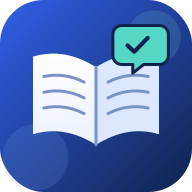
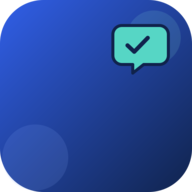
Add files via upload

Changed region(s): [[0.1562, 0.25, 0.8438, 0.75], [0.8125, 0.0, 1.0, 0.2188], [0.0, 0.7812, 0.1875, 1.0]]

diff --git a/app.js b/app.js
@@ -16,13 +16,13 @@ function typesetMath(container=root){
   if(window.MathJax?.typesetPromise) window.MathJax.typesetPromise([container]).catch(()=>{});
 }
 async function api(url,opt={}){opt.headers={...(opt.headers||{}),'Content-Type':'application/json',...(token?{Authorization:'Bearer '+token}:{})};const r=await fetch('/api'+url,opt);const d=await r.json().catch(()=>({}));if(!r.ok)throw Error(d.error||'Request failed');return d}
-function authView(){root.innerHTML=`<main class="center"><section class="card auth-card"><div class="auth-brand"><img src="/icon-192.svg" alt="Easyway Learn logo"><div><h1>Easyway Learn</h1><p>Tuition Teacher · Reading & Learning</p></div></div><h2>Welcome</h2><div class="auth-choice-grid"><button class="list" type="button" onclick="teacherLoginOnly()">🔐 Login</button><button class="list" type="button" onclick="teacherRegisterOnly()">🆕 Create Teacher Account</button></div></section></main>`}
+function authView(){root.innerHTML=`<main class="center"><section class="card auth-card"><div class="auth-brand"><img src="/icon-192.png" alt="Easyway Learn logo"><div><h1>Easyway Learn</h1><p>Tuition Teacher · Reading & Learning</p></div></div><h2>Welcome</h2><div class="auth-choice-grid"><button class="list" type="button" onclick="teacherLoginOnly()">🔐 Login</button><button class="list" type="button" onclick="teacherRegisterOnly()">🆕 Create Teacher Account</button></div></section></main>`}
 function teacherLoginOnly(){teacherAuthForms();const reg=document.getElementById('reg');if(reg)reg.closest('form')?.remove();const admin=document.getElementById('adminLoginBtn');if(admin)admin.remove();const back=document.createElement('button');back.type='button';back.className='btn-secondary';back.textContent='Back';back.onclick=authView;root.querySelector('.auth-brand')?.after(back);const h3=root.querySelector('h3');if(h3)h3.remove();const hr=root.querySelectorAll('hr');if(hr.length)hr[hr.length-1].remove();}
 function teacherRegisterOnly(){teacherAuthForms();const login=document.getElementById('login');if(login){login.remove();}const forgot=document.getElementById('forgot');if(forgot)forgot.remove();const headings=root.querySelectorAll('h2');if(headings[0])headings[0].textContent='Create Teacher Account';const h3=root.querySelector('h3');if(h3)h3.remove();const admin=document.getElementById('adminLoginBtn');if(admin)admin.remove();const hr=root.querySelectorAll('hr');hr.forEach(x=>x.remove());const brand=root.querySelector('.auth-brand');if(brand){const back=document.createElement('button');back.type='button';back.className='btn-secondary';back.textContent='Back';back.onclick=authView;brand.after(back);}}
 function teacherAuthForms(){
   const resetToken=new URLSearchParams(location.search).get('reset');
   if(resetToken){return resetPasswordView(resetToken)}
-  root.innerHTML=`<main class="center"><section class="card auth-card"><div class="auth-brand"><img src="/icon-192.svg" alt="Easyway Learn logo"><div><h1>Easyway Learn</h1><p>Tuition Teacher · Reading & Learning</p></div></div><div class="section-kicker">TEACHER PORTAL</div><h2>Teacher Login</h2><form id="login"><label for="loginEmail">Email</label><input id="loginEmail" name="email" type="email" placeholder="अपना ईमेल लिखें" autocomplete="username" required><label for="loginPassword">Password</label><input id="loginPassword" name="password" type="password" placeholder="अपना पासवर्ड लिखें" autocomplete="current-password" required><button>Login</button></form><button id="forgot" class="btn-secondary" type="button">Forgot Password?</button><hr><h3>Create new Teacher ID</h3><form id="reg"><label for="registerName">Teacher name</label><input id="registerName" name="name" placeholder="शिक्षक का नाम" required><label for="registerEmail">Email</label><input id="registerEmail" name="email" type="email" placeholder="ईमेल" autocomplete="email" required><label for="registerPassword">Password</label><input id="registerPassword" name="password" type="password" minlength="6" placeholder="कम से कम 6 अक्षर" autocomplete="new-password" required><button>Create Account</button></form></section></main>`;
+  root.innerHTML=`<main class="center"><section class="card auth-card"><div class="auth-brand"><img src="/icon-192.png" alt="Easyway Learn logo"><div><h1>Easyway Learn</h1><p>Tuition Teacher · Reading & Learning</p></div></div><div class="section-kicker">TEACHER PORTAL</div><h2>Teacher Login</h2><form id="login"><label for="loginEmail">Email</label><input id="loginEmail" name="email" type="email" placeholder="अपना ईमेल लिखें" autocomplete="username" required><label for="loginPassword">Password</label><input id="loginPassword" name="password" type="password" placeholder="अपना पासवर्ड लिखें" autocomplete="current-password" required><button>Login</button></form><button id="forgot" class="btn-secondary" type="button">Forgot Password?</button><hr><h3>Create new Teacher ID</h3><form id="reg"><label for="registerName">Teacher name</label><input id="registerName" name="name" placeholder="शिक्षक का नाम" required><label for="registerEmail">Email</label><input id="registerEmail" name="email" type="email" placeholder="ईमेल" autocomplete="email" required><label for="registerPassword">Password</label><input id="registerPassword" name="password" type="password" minlength="6" placeholder="कम से कम 6 अक्षर" autocomplete="new-password" required><button>Create Account</button></form></section></main>`;
   login.onsubmit=async e=>{e.preventDefault();try{const d=await api('/auth/login',{method:'POST',body:JSON.stringify(Object.fromEntries(new FormData(login)))});token=d.token;localStorage.token=token;boot()}catch(x){alert(x.message)}};
   reg.onsubmit=async e=>{e.preventDefault();try{const d=await api('/auth/register',{method:'POST',body:JSON.stringify(Object.fromEntries(new FormData(reg)))});token=d.token;localStorage.token=token;sessionStorage.teacherCreated=`Account Created Successfully\nName: ${d.teacher.name}\nEmail/Teacher ID: ${d.teacher.email}`;boot()}catch(x){alert(x.message)}};
   forgot.onclick=forgotPasswordView;
@@ -84,7 +84,7 @@ function dashboard(){
   const created=sessionStorage.getItem('teacherCreated'); sessionStorage.removeItem('teacherCreated');
   const orderedStudents=state.students;
   const rankMap=new Map(state.results.slice().sort((a,b)=>Number(b.score||0)-Number(a.score||0)).map((r,i)=>[r.id||r.student_id,i+1]));
-  root.innerHTML=`<header><div class="brand-lockup"><img src="/icon-192.svg" alt="Easyway Learn logo"><div><b>Easyway Learn</b><small>Tuition Teacher${decodeJwtRole()==='admin_impersonate'?' · Admin Check Mode':''}</small></div></div><div class="header-actions">${decodeJwtRole()==='admin_impersonate'?'<button id="backAdmin" class="btn-secondary" type="button">Back to Admin</button>':''}<button id="teacherProfile" class="profile-button" type="button" aria-expanded="false"><span class="profile-avatar">${esc((state.teacher?.name||'T').trim().charAt(0).toUpperCase())}</span><span class="profile-name">${esc(state.teacher?.name||'Teacher')}</span><span>⌄</span></button><button id="logout">Logout</button></div><div id="profileMenu" class="profile-menu" hidden><b>${esc(state.teacher?.name||'Teacher')}</b><small>Teacher ID: ${esc(state.teacher?.email||state.teacher?.id||'')}</small><button id="profileChangePassword" class="btn-secondary" type="button">Change Password</button></div></header><main>${created?`<section class="success-banner"><b>${esc(created).replace(/\n/g,'<br>')}</b></section>`:''}
+  root.innerHTML=`<header><div class="brand-lockup"><img src="/icon-192.png" alt="Easyway Learn logo"><div><b>Easyway Learn</b><small>Tuition Teacher${decodeJwtRole()==='admin_impersonate'?' · Admin Check Mode':''}</small></div></div><div class="header-actions">${decodeJwtRole()==='admin_impersonate'?'<button id="backAdmin" class="btn-secondary" type="button">Back to Admin</button>':''}<button id="teacherProfile" class="profile-button" type="button" aria-expanded="false"><span class="profile-avatar">${esc((state.teacher?.name||'T').trim().charAt(0).toUpperCase())}</span><span class="profile-name">${esc(state.teacher?.name||'Teacher')}</span><span>⌄</span></button><button id="logout">Logout</button></div><div id="profileMenu" class="profile-menu" hidden><b>${esc(state.teacher?.name||'Teacher')}</b><small>Teacher ID: ${esc(state.teacher?.email||state.teacher?.id||'')}</small><button id="profileChangePassword" class="btn-secondary" type="button">Change Password</button></div></header><main>${created?`<section class="success-banner"><b>${esc(created).replace(/\n/g,'<br>')}</b></section>`:''}
   <section class="card"><div class="section-heading"><div><div class="section-kicker">STUDENT MANAGEMENT</div><h2>Students</h2></div><span class="count-pill">${state.students.length}/20</span></div><button id="addStudent">+ Add Student</button><div id="studentList" class="compact-grid">${orderedStudents.slice(0,5).map((st,i)=>`<button class="list compact-item" data-s="${st.id}">${i+1}. ${esc(st.name)}<small>Class ${esc(st.class_name)}</small></button>`).join('')}${orderedStudents.length>5?'<button id="moreStudents" class="btn-secondary compact-item">More</button>':''}</div><div id="extraStudents" class="compact-grid" hidden>${orderedStudents.slice(5).map((st,i)=>`<button class="list compact-item" data-s="${st.id}">${i+6}. ${esc(st.name)}<small>Class ${esc(st.class_name)}</small></button>`).join('')}</div></section>
   <section class="card"><div class="section-heading"><div><div class="section-kicker">PERFORMANCE</div><h2>Student Rank</h2></div></div><div class="compact-grid rank-grid dashboard-rank-grid">${state.results.slice().sort((a,b)=>Number(b.score||0)-Number(a.score||0)).slice(0,8).map((r,i)=>`<div class="rank-tile"><b>#${i+1} ${esc(r.name)}</b><span>${Number(r.score||0).toFixed(2)}% · ${r.tests||0} tests</span></div>`).join('')||'<p class="muted">टेस्ट पूरा होने पर रैंक दिखाई देगी।</p>'}${state.results.length>8?'<button id="moreRanks" class="btn-secondary compact-item">More</button>':''}</div><div id="extraRanks" class="compact-grid rank-grid" hidden>${state.results.slice().sort((a,b)=>Number(b.score||0)-Number(a.score||0)).slice(8).map((r,i)=>`<div class="rank-tile"><b>#${i+9} ${esc(r.name)}</b><span>${Number(r.score||0).toFixed(2)}% · ${r.tests||0} tests</span></div>`).join('')}</div></section>
   <section class="card"><div class="section-heading"><div><div class="section-kicker">LEARNING MATERIAL</div><h2>Subjects</h2></div></div><div class="compact-grid dashboard-subject-grid">${state.content.slice(0,5).map((sub,i)=>`<button class="list compact-item" data-teacher-subject="${sub.id}">${i+1}. ${esc(sub.name)}</button>`).join('')}${state.content.length>5?'<button id="moreSubjects" class="btn-secondary compact-item">More</button>':''}<button id="addSubject" class="btn-secondary compact-item">+ Create Subject</button></div><div id="extraSubjects" class="compact-grid" hidden>${state.content.slice(5).map((sub,i)=>`<button class="list compact-item" data-teacher-subject="${sub.id}">${i+6}. ${esc(sub.name)}</button>`).join('')}</div><div id="content" hidden>${renderContent()}</div></section></main>`;
@@ -99,7 +99,7 @@ function dashboard(){
   const moreSubjects=document.getElementById('moreSubjects');if(moreSubjects)moreSubjects.onclick=()=>{document.getElementById('extraSubjects').hidden=false;moreSubjects.remove();bindSubjectButtons()};
   function bindSubjectButtons(){document.querySelectorAll('[data-teacher-subject]').forEach(b=>b.onclick=()=>teacherSubjectFlow(+b.dataset.teacherSubject))}bindSubjectButtons();
 }
-function teacherSubjectFlow(subjectId){const subject=state.content.find(s=>s.id===subjectId);if(!subject)return;root.innerHTML=`<header><div class="brand-lockup"><img src="/icon-192.svg" alt=""><div><b>Easyway Learn</b><small>${esc(subject.name)}</small></div></div><button class="btn-secondary" onclick="dashboard()">Back</button></header><main><section class="card"><h2>${esc(subject.name)} — Book चुनें</h2><div class="compact-grid">${subject.books.map(b=>`<button class="list compact-item" onclick="teacherBookFlow(${subjectId},${b.id})">${esc(b.name)}</button>`).join('')||'<p class="muted">अभी कोई Book नहीं है।</p>'}</div><div class="button-row"><button onclick="addBookForm(${subjectId})">+ Book</button><button class="btn-secondary" onclick="editSubject(${subjectId})">Edit Subject</button></div></section></main>`}
+function teacherSubjectFlow(subjectId){const subject=state.content.find(s=>s.id===subjectId);if(!subject)return;root.innerHTML=`<header><div class="brand-lockup"><img src="/icon-192.png" alt=""><div><b>Easyway Learn</b><small>${esc(subject.name)}</small></div></div><button class="btn-secondary" onclick="dashboard()">Back</button></header><main><section class="card"><h2>${esc(subject.name)} — Book चुनें</h2><div class="compact-grid">${subject.books.map(b=>`<button class="list compact-item" onclick="teacherBookFlow(${subjectId},${b.id})">${esc(b.name)}</button>`).join('')||'<p class="muted">अभी कोई Book नहीं है।</p>'}</div><div class="button-row"><button onclick="addBookForm(${subjectId})">+ Book</button><button class="btn-secondary" onclick="editSubject(${subjectId})">Edit Subject</button></div></section></main>`}
 function teacherBookFlow(subjectId,bookId){const subject=state.content.find(s=>s.id===subjectId),book=subject?.books.find(b=>b.id===bookId);if(!book)return;root.innerHTML=`<header><b>${esc(book.name)} — Chapter चुनें</b><button class="btn-secondary" onclick="teacherSubjectFlow(${subjectId})">Back</button></header><main><section class="card"><div class="compact-grid">${book.chapters.map(c=>`<button class="list compact-item" onclick="teacherChapterFlow(${subjectId},${bookId},${c.id})">${esc(c.name)}</button>`).join('')||'<p class="muted">अभी कोई Chapter नहीं है।</p>'}</div><button onclick="addChapterForm(${bookId})">+ Chapter</button><button class="btn-secondary" onclick="editBook(${bookId})">Edit Book</button></section></main>`}
 function teacherChapterFlow(subjectId,bookId,chapterId){const c=getChapter(chapterId);if(!c)return;root.innerHTML=`<header><b>${esc(c.name)} — Content चुनें</b><button class="btn-secondary" onclick="teacherBookFlow(${subjectId},${bookId})">Back</button></header><main><section class="card"><p>${c.paragraphs.length} paragraphs · ${c.qa.length} Q&A</p><div class="compact-grid"><button class="list compact-item" onclick="editChapterParagraphs(${chapterId})">Paragraph</button><button class="list compact-item" onclick="editChapterQA(${chapterId})">Question-Answer</button></div><button class="btn-secondary" onclick="editChapterName(${chapterId})">Edit Chapter Name</button></section></main>`}
 

diff --git a/index.html b/index.html
@@ -1,1 +1,1 @@
-<!doctype html><html lang="hi"><head><meta charset="UTF-8"><meta name="viewport" content="width=device-width,initial-scale=1"><title>Easyway Learn | Tuition Teacher</title><link rel="stylesheet" href="/app.css"><link rel="manifest" href="/manifest.webmanifest"><meta name="theme-color" content="#10234c"><meta name="mobile-web-app-capable" content="yes"><meta name="apple-mobile-web-app-capable" content="yes"><meta name="apple-mobile-web-app-status-bar-style" content="default"><link rel="icon" href="/icon-192.svg" type="image/svg+xml"></head><body><div id="app"></div><script>window.MathJax={tex:{inlineMath:[["\\(","\\)"],["$","$"]],displayMath:[["\\[","\\]"]]},options:{skipHtmlTags:["script","noscript","style","textarea","pre","code"]}};</script><script defer src="https://cdn.jsdelivr.net/npm/mathjax@3/es5/tex-chtml.js"></script><script src="https://cdnjs.cloudflare.com/ajax/libs/html2pdf.js/0.10.1/html2pdf.bundle.min.js"></script><script src="/app.js"></script><script>if("serviceWorker" in navigator){window.addEventListener("load",()=>navigator.serviceWorker.register("/sw.js").catch(()=>{}));}</script></body></html>
+<!doctype html><html lang="hi"><head><meta charset="UTF-8"><meta name="viewport" content="width=device-width,initial-scale=1"><title>Easyway Learn | Tuition Teacher</title><link rel="stylesheet" href="/app.css"><link rel="manifest" href="/manifest.webmanifest"><meta name="theme-color" content="#10234c"><meta name="mobile-web-app-capable" content="yes"><meta name="apple-mobile-web-app-capable" content="yes"><meta name="apple-mobile-web-app-status-bar-style" content="default"><link rel="icon" href="/icon-192.png" type="image/png"><link rel="apple-touch-icon" href="/icon-192.png"></head><body><div id="app"></div><script>window.MathJax={tex:{inlineMath:[["\\(","\\)"],["$","$"]],displayMath:[["\\[","\\]"]]},options:{skipHtmlTags:["script","noscript","style","textarea","pre","code"]}};</script><script defer src="https://cdn.jsdelivr.net/npm/mathjax@3/es5/tex-chtml.js"></script><script src="https://cdnjs.cloudflare.com/ajax/libs/html2pdf.js/0.10.1/html2pdf.bundle.min.js"></script><script src="/app.js"></script><script>if("serviceWorker" in navigator){window.addEventListener("load",()=>navigator.serviceWorker.register("/sw.js").catch(()=>{}));}</script></body></html>

diff --git a/sw.js b/sw.js
@@ -1,5 +1,5 @@
-const CACHE_NAME = 'easyway-learn-shell-v56';
-const SHELL = ['/', '/index.html', '/manifest.webmanifest', '/icon-192.svg', '/icon-512.svg'];
+const CACHE_NAME = 'easyway-learn-shell-v57-icon-fix';
+const SHELL = ['/', '/index.html', '/manifest.webmanifest', '/icon-192.png', '/icon-512.png'];
 
 self.addEventListener('install', event => {
   event.waitUntil(caches.open(CACHE_NAME).then(cache => cache.addAll(SHELL)).then(() => self.skipWaiting()));

diff --git a/README.md b/README.md
@@ -1,3 +1,13 @@
+# V57 — Icon Download Fix
+
+Based directly on **V56 Final Combined Updates**. This release only fixes the PWA/app-icon asset handling so the icon is not treated as a downloadable SVG file on Android/Chrome. Existing application features, authentication, student data, test logic, scores, histories, OCR, speaker controls, admin activity and database behavior are preserved. No database reset or recreation is included.
+
+## Icon fix
+- PWA manifest now uses PNG icons (`icon-192.png`, `icon-512.png`).
+- Browser favicon and Apple touch icon use PNG.
+- Service-worker shell/cache uses PNG icons and a new cache version.
+- SVG icon assets are removed from the release to prevent repeated `icon-512.svg` downloads.
+
 # Easyway Learn — Tuition Teacher App — V56
 
 V27 keeps the existing V26 app features unchanged. The only functional change is the email delivery method for:
